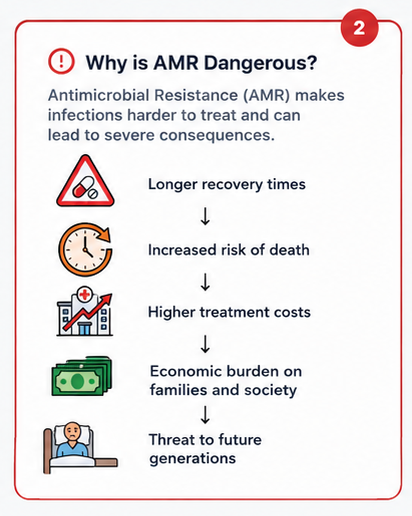
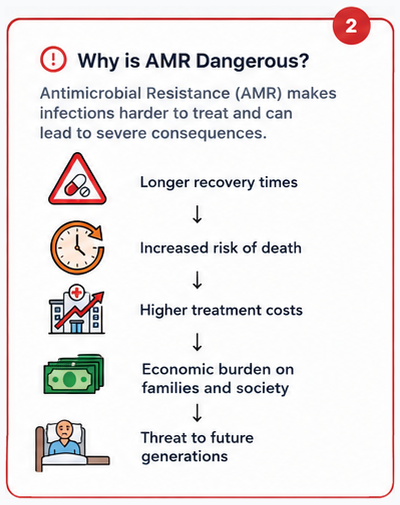
Make About AMR cards uniform in size across English and Marathi

diff --git a/index.html b/index.html
@@ -216,7 +216,7 @@
 
         <figure class="about-card reveal">
           <img src="About AMR/1.png" data-src-en="About AMR/1.png" data-src-mr="About AMR/1-marathi.png"
-            width="395" height="499" loading="lazy" decoding="async"
+            width="400" height="505" loading="lazy" decoding="async"
             class="about-card-img" role="button" tabindex="0"
             data-i18n-attr="alt:about.card1.alt,data-modal-title:about.card1.modal.title,data-modal-desc:about.card1.modal.desc"
             alt="Card 1, What is AMR? Germs meet an antibiotic, evolve to resist it, and the medicine stops working."
@@ -232,7 +232,7 @@
 
         <figure class="about-card reveal">
           <img src="About AMR/2.png" data-src-en="About AMR/2.png" data-src-mr="About AMR/2-marathi.png"
-            width="412" height="516" loading="lazy" decoding="async"
+            width="400" height="505" loading="lazy" decoding="async"
             class="about-card-img" role="button" tabindex="0"
             data-i18n-attr="alt:about.card2.alt,data-modal-title:about.card2.modal.title,data-modal-desc:about.card2.modal.desc"
             alt="Card 2, Why is AMR dangerous? Longer recovery, higher risk of death, higher costs, economic burden and a threat to future generations."
@@ -251,7 +251,7 @@
           <a class="about-card-link" href="#journey" data-i18n-attr="aria-label:about.card3.link_label"
             aria-label="What can we do to prevent AMR? See the seven steps for safe disposal">
             <img src="About AMR/3.png" data-src-en="About AMR/3.png" data-src-mr="About AMR/3-marathi.png"
-              width="433" height="512" loading="lazy" decoding="async"
+              width="400" height="505" loading="lazy" decoding="async"
               class="about-card-img" data-i18n-attr="alt:about.card3.alt"
               alt="Card 3, What can we do to prevent AMR? Take antibiotics only as prescribed, finish the course, and drop leftovers at a collection centre.">
           </a>

diff --git a/style.css b/style.css
@@ -1142,12 +1142,16 @@ nav ul li a:active {
   margin: 0;
   width: 100%;
   max-width: 420px;
+  display: flex;
+  flex-direction: column;
 }
 
 .about-card-img {
   display: block;
   width: 100%;
   height: auto;
+  aspect-ratio: 400 / 505;
+  object-fit: contain;
   border-radius: var(--radius-md);
   transition: transform var(--dur-base) var(--ease-out);
 }
@@ -1159,7 +1163,10 @@ nav ul li a:active {
 /* Card 3 only: the image has a "See the seven steps" link painted into it, and
    pixels cannot be clicked, so the card itself carries the real link. */
 .about-card-link {
-  display: block;
+  display: flex;
+  flex-direction: column;
+  width: 100%;
+  height: 100%;
   border-radius: var(--radius-md);
 }
 
@@ -1188,11 +1195,12 @@ nav ul li a:active {
   .about-cards {
     grid-template-columns: repeat(3, 1fr);
     gap: var(--space-5);
-    align-items: start;
+    align-items: stretch;
   }
 
   .about-card {
     max-width: none;
+    height: 100%;
   }
 }
 
